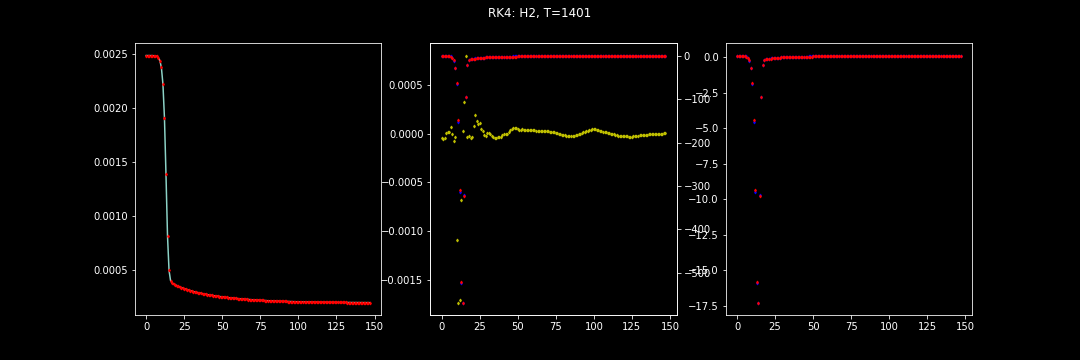
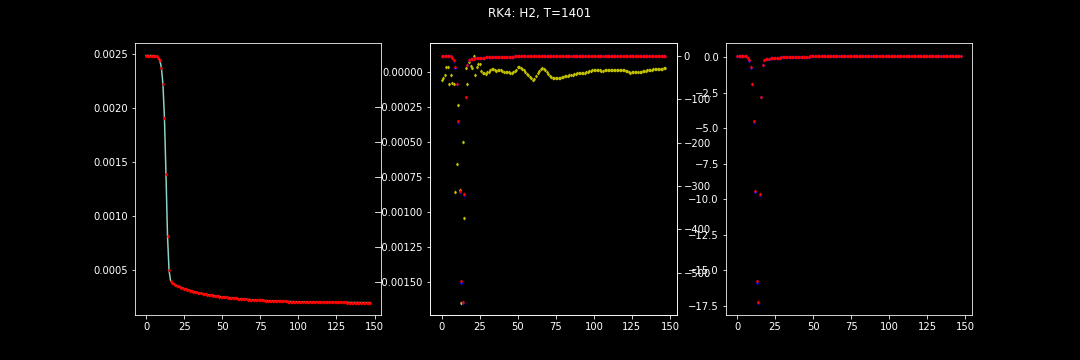
add rk4Model

diff --git a/neuralODE_post.py b/neuralODE_post.py
@@ -11,7 +11,7 @@ from src.dataGen import test_data
 columns, in_scaler, out_scaler = pickle.load(open('data/tmp.pkl', 'rb'))
 # columns = org.columns
 species = columns
-labels = columns.drop(['AR','dt', 'f', 'Hs', 'cp'])
+labels = columns.drop(['AR', 'dt', 'f', 'cp'])
 input_features = labels
 
 # %%
@@ -46,11 +46,13 @@ post_model.add(model_trans)
 post_model.add(model_neuralODE)
 post_model.add(model_inv)
 post_model.save('postODENet.h5')
+
 # %%
 # post_model.predict(org[labels].iloc[0:1])
 
 # out_scaler.inverse_transform(model_neuralODE.predict(
 #     in_scaler.transform(org[labels].iloc[0:1])))
+
 
 # %%
 def euler(data_in, dt):
@@ -241,3 +243,75 @@ plt.plot(test['t'], input_0[sp], 'b')
 plt.title('{},T={}'.format(sp, ini_T))
 plt.show()
 # %%
+import tensorflow.keras as keras
+from tensorflow.keras.layers import Input
+from tensorflow.keras.models import Model
+from tensorflow.keras.utils import plot_model
+
+dim_input = len(labels)
+
+din = Input(shape=(dim_input, ), name='input_y')
+dt = Input(shape=(1, ), name='input_dt')
+
+p1 = din
+k1 = post_model(p1)
+
+mul2 = keras.layers.multiply([k1, keras.layers.Lambda(lambda x: x * 0.5)(dt)])
+p2 = keras.layers.add([mul2, p1])
+
+# p2 = mul+p1
+# p2 = k1 * keras.layers.Lambda(lambda x: x * 0.5)(dt) + p1
+# p2 = k1 * dt / 2 + din
+k2 = post_model(p2)
+
+p3 = k2 * dt / 2 + din
+k3 = post_model(p3)
+
+p4 = k3 * dt + din
+k4 = post_model(p4)
+
+out = 1 / 6 * (k1 + 2 * k2 + 2 * k3 + k4)
+# rk4Model = Model(inputs=din, outputs=k1)
+rk4Model = Model(inputs=[din, dt], outputs=k2)
+rk4Model.summary()
+
+plot_model(rk4Model, to_file="wudi.png")
+rk4Model.save('wudi.h5')
+
+#%%
+import tensorflow.keras as keras
+from tensorflow.keras.layers import Input
+from tensorflow.keras.models import Model
+from tensorflow.keras.utils import plot_model
+
+dim_input = len(labels)
+
+din = Input(shape=(dim_input, ), name='input_y')
+dt = Input(shape=(1, ), name='input_dt')
+
+p1 = din
+k1 = post_model(p1)
+
+mul2 = keras.layers.multiply([k1, keras.layers.Lambda(lambda x: x * 0.5)(dt)])
+p2 = keras.layers.add([mul2, p1])
+k2 = post_model(p2)
+
+mul3 = keras.layers.multiply([k2, keras.layers.Lambda(lambda x: x * 0.5)(dt)])
+p3 = keras.layers.add([mul3, p1])
+k3 = post_model(p3)
+
+mul4 = keras.layers.multiply([k3, dt])
+p4 = keras.layers.add([mul4, p1])
+k4 = post_model(p4)
+
+out1 = keras.layers.Lambda(lambda x: x * 1 / 6)(k1)
+out2 = keras.layers.Lambda(lambda x: x * 1 / 3)(k2)
+out3 = keras.layers.Lambda(lambda x: x * 1 / 3)(k3)
+out4 = keras.layers.Lambda(lambda x: x * 1 / 6)(k4)
+out = keras.layers.add([out1, out2, out3, out4])
+
+rk4Model = Model(inputs=[din, dt], outputs=out)
+rk4Model.summary()
+
+plot_model(rk4Model, to_file="wudi.png")
+rk4Model.save('rk4Model.h5')

diff --git a/tf2.py b/tf2.py
@@ -5,7 +5,8 @@ from tensorflow.python.tools import freeze_graph
 from tensorflow.python.saved_model import tag_constants
 
 #%%
-model = keras.models.load_model('./postODENet.h5')
+# model = keras.models.load_model('./postODENet.h5')
+model = keras.models.load_model('./wudi.h5')
 model.summary()
 
 #%%
